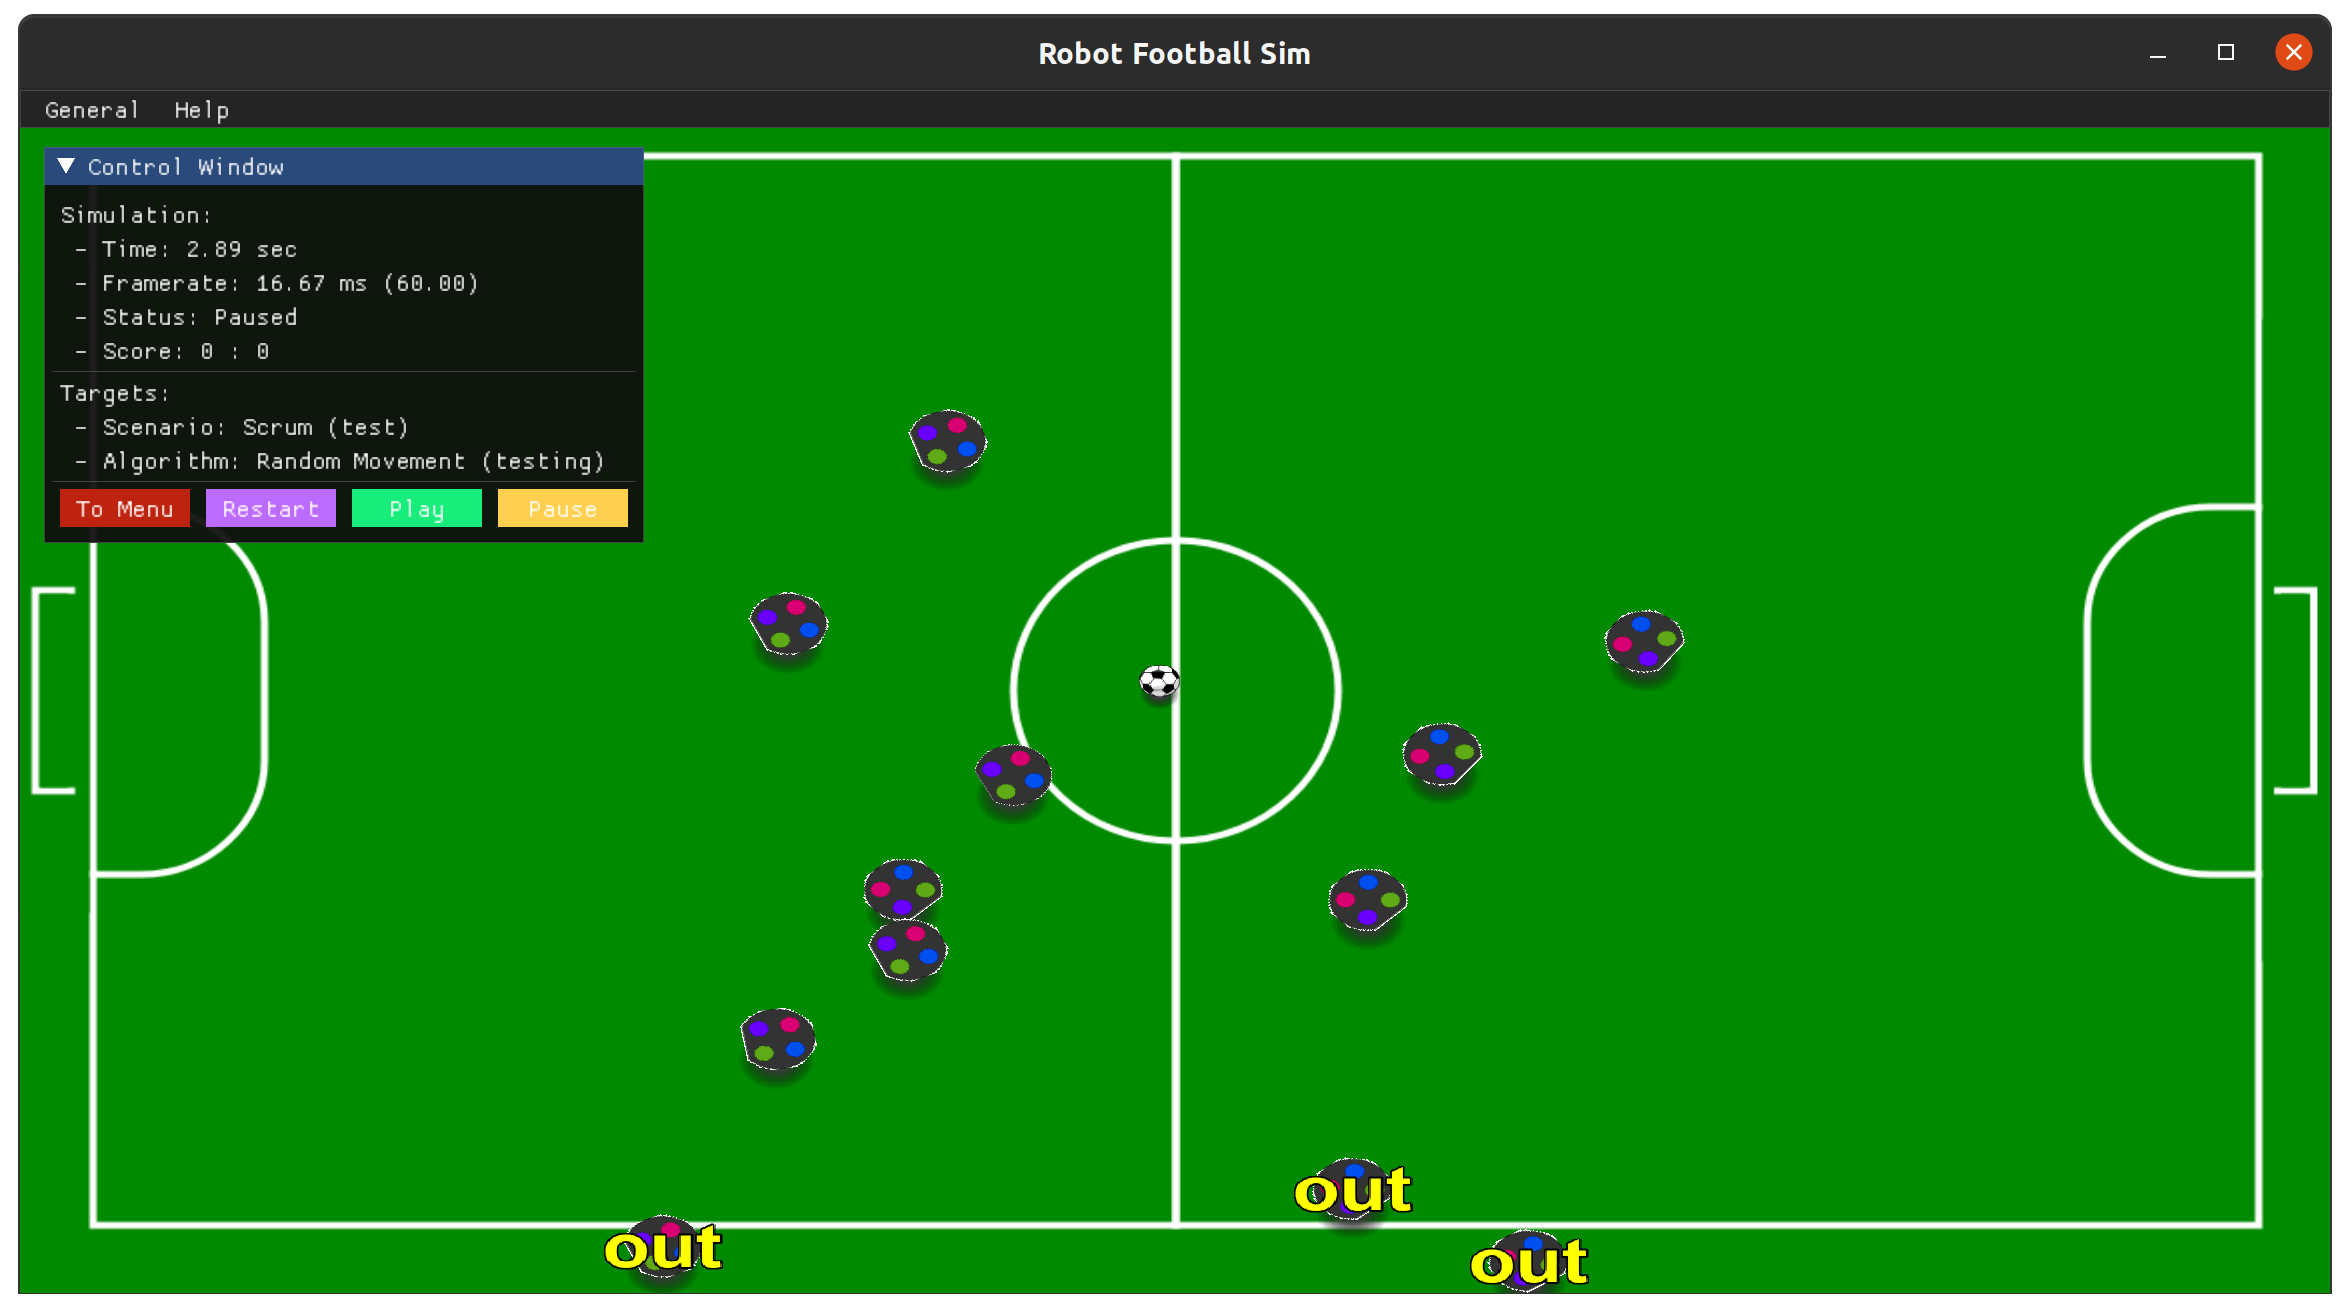
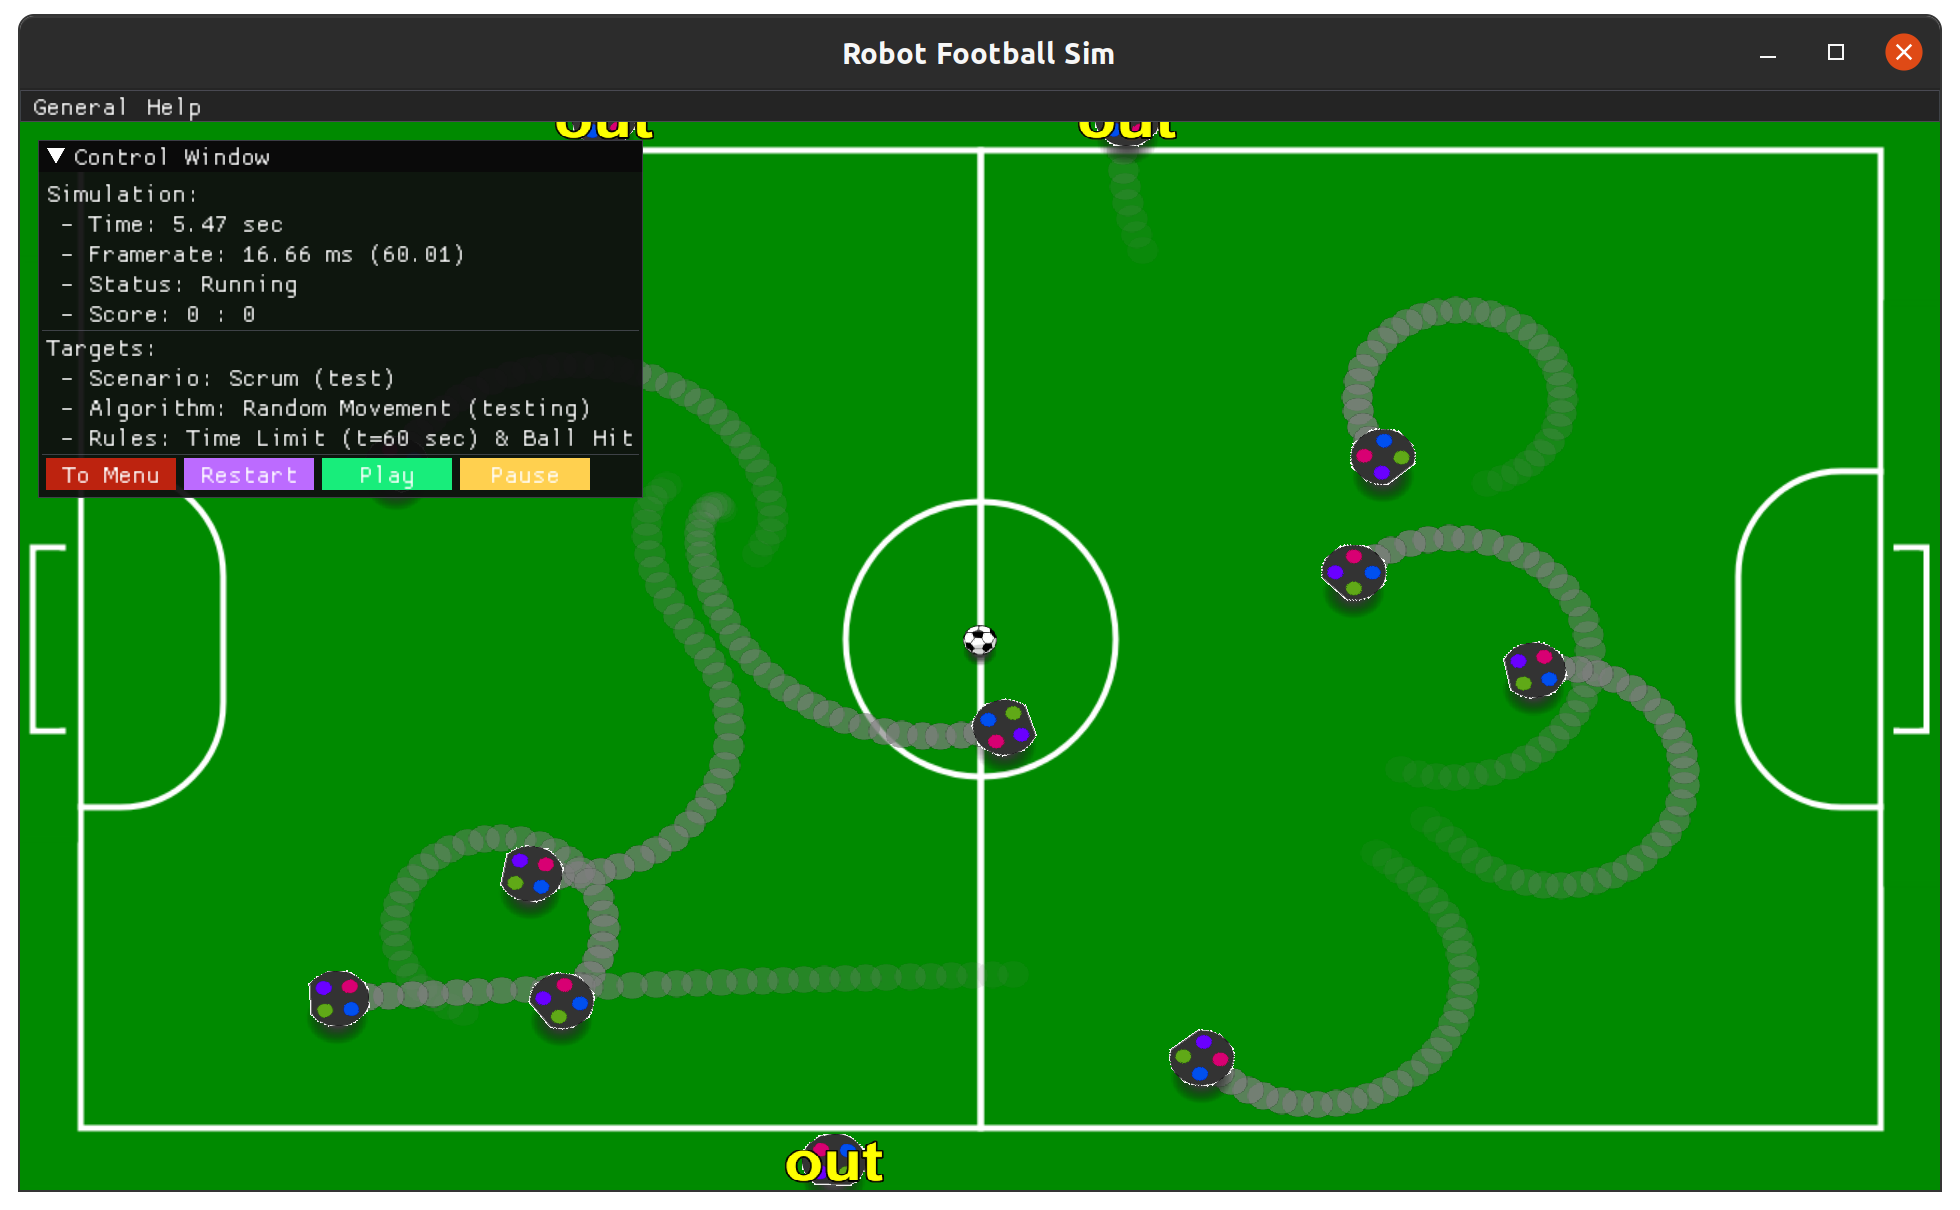
[Project] Update readme info

diff --git a/README.md b/README.md
@@ -2,19 +2,23 @@
 
 # Robot Football Simulator
 
-Robot football simulator with graphical user interface and the feature
-to develop and run algorithms, required to control robots, test
+Robot football simulator application with physically correct game simulation,
+different game scenario and game rules, rich settings and customization features 
+and with C API to develop and run algorithms, required to control robots, test
 various game strategies and game mechanics.
 
 ### Features Summary
 
-- [X] Dynamic algorithms loading
 - [X] Simulated 2d physics of the game
-- [X] 2d rendering for the football game
-- [X] Game logic and rules 
-- [X] GUI application, widgets and menus
-- [ ] Example Algorithms
-- [ ] Config support
+- [X] Optimized 2d rendering for the football game
+- [X] Game scenario for different game setup
+- [X] Game rules to control game flow
+- [X] Plugin system for user-defined algorithms loading at runtime
+- [X] GUI application
+- [X] Settings to tweak simulation and display options
+- [X] Debug window with current simulation state info
+- [X] Example Algorithms
+- [X] Config file support
 
 ## Third-party dependencies
 
@@ -23,9 +27,13 @@ various game strategies and game mechanics.
 * [box2d](https://github.com/erincatto/box2d) for 2d robots physics simulation 
 * [imgui](https://github.com/ocornut/imgui) for creating application GUI
 * [stb image](https://github.com/nothings/stb) for images processing
+* [dynalo](https://github.com/maddouri/dynalo) for shared/dynamics libraries management
+* [picojson](https://github.com/kazuho/picojson) for json configs loading
 * [glm](https://github.com/g-truc/glm) for 3d math functions
 
 ## Getting started
+
+### Source code
 
 Get the source code and initialize dependencies of the project.
 
@@ -34,6 +42,8 @@ $ git clone https://github.com/EgorOrachyov/RobotFootballSim.git
 $ cd RobotFootballSim
 $ git submodule update --init --recursive
 ```
+
+### Build
 
 Configure build directory and run the build process.
 
@@ -46,22 +56,128 @@ cmake --build .
 
 Alternatively import project into desired IDE (import as cmake project).
 
+In order to start the simulator `rfsim` target, you will have to build all default
+algorithm plugins targets `randommove` and `followmove`. As soon as its done,
+you will be able to correctly start the simulator application.
+
+### Run
+
+Inside the build directory go into directory with actual `rfsim` executable
+(on linux/macos it will be placed in `build/rfsim`, on windows some generators
+can output the actual executable into `build/Debug/rfsim` and something similar):
+
+```shell script
+./rfsim
+```
+
+This command starts simulator application, so the app primary window must appear on the screen.
+
+### Config
+
+Simulator uses `config.json` to tweak simulator params, which are parsed and applied on application start-up.
+This config file is placed near `rfsim` executable inside build directory in time of cmake build process.
+Use this config file to customize the following params:
+
+* **windowWidth** Primary window width in universal units **ADVANCED**
+* **windowHeight** Primary window height in universal units **ADVANCED**
+* **fontScale** Font scale for hdpi displays
+* **guiScale** GUI elements scale for hdpi displays **ADVANCED**
+* **resourcesPath** Prefix path to simulator resources **ADVANCED**
+* **pluginPathPrefix** Prefix path to algorithms plugins **ADVANCED**
+* **pluginPaths** Actual plugins names to load on start-up (use name without `lib` and `ext` specifiers)
+
+### Algorithm
+
+In order to create custom algorithm you need to create a shared/dynamic library object
+and expose API conventions functions, which will be called by the simulator for each simulation step.
+The API is described in `include/rfsim/rfsim.h` header file. The template of the basic algorithm is following:
+
+```c++
+#define RFSIM_EXPORTS
+#include <rfsim/rfsim.h>
+#include <cstring>
+
+RFSIM_DEFINE_FUNCTION_INIT {
+    std::strcpy(context->name, "Algorithm Template");
+    std::strcpy(context->description, "Default algorithm template for readme");
+    return rfsim_status_success;
+};
+
+RFSIM_DEFINE_FUNCTION_BEGIN_GAME {
+    return rfsim_status_success;
+};
+
+RFSIM_DEFINE_FUNCTION_TICK_GAME {
+    return rfsim_status_success;
+};
+
+RFSIM_DEFINE_FUNCTION_END_GAME {
+    return rfsim_status_success;
+};
+
+RFSIM_DEFINE_FUNCTION_FINALIZE {
+    return rfsim_status_success;
+};
+```
+
+This algorithm does actually nothing. However, it provides five callback functions,
+which will be called for each simulation step. Description of the functions:
+
+1. `rfsim_status rfsim_init(rfsim_algo_state* context)` - called when the algorithm is loaded into the simulator
+2. `rfsim_status rfsim_begin_game(rfsim_algo_state* context, const rfsim_game_settings* settings, const rfsim_game_start_info* start)` - called when new game is started
+3. `rfsim_status rfsim_tick_game(rfsim_algo_state* context, rfsim_game_state_info* state)` - called each sim step
+4. `rfsim_status rfsim_end_game(rfsim_algo_state* context)` - called when game is finished
+5. `rfsim_status rfsim_finalize(rfsim_algo_state* context)` - called when algorithm is unloaded from simulator
+
+Follow `rfsim.h` and some example algorithms implementations to create your custom algo.
+
+### Conventions
+
+1. Simulator uses 2d coordinates space with horizontal from left to right X-axis,
+and vertical from top to bottom Y-axis. Rotations are encoded in radians, full rotation is 2 * PI respectively.
+By default the body (robot) direction vector is `(1, 0)` and its angle is `0.0f`. 
+The rotation is in clockwise order, so the body with angle `PI / 4` has direction vector (0.707, 0.707).
+More info is shown on the image: 
+![rfsim](https://raw.githubusercontent.com/EgorOrachyov/RobotFootballSim/main/docs/pictures/coords-space.png)
+
+2. For measurements simulator uses the metric system of measures and weights.
+Robots and ball mass is in kilograms, speed is in meter/second, force is in Newtons, time in seconds and etc.
+Physics properties of the field, robots and ball, friction and restitution are set in the 
+`physics/PhysicsGameProperties.hpp` structure. This properties are custom for each game and can be found
+in the `scenarion/ScenarionCommon.hpp` class. Physics settings are listed bellow:
+
+* **fieldFriction** field friction for bodies
+* **robotRadius** in meters
+* **robotHeight** in meters
+* **robotMass** in kilograms
+* **robotFriction** robot material friction
+* **robotRestitution** robot restitution for contacts
+* **robotMaxSpeed** in meters/second
+* **robotWheelXOffset** offset in meters from the center of the robot where wheels are placed
+* **ballRadius** in meters
+* **ballMass** in kilograms
+* **ballFriction** ball material friction
+* **ballRestitution** ball restitution for contacts
+
 ## Simulator Features
 
-Main menu screen animated logo and menu to start new game with selected scenario and control algorithm.
+1. Main menu screen animated logo and menu to start new game with selected scenario, control algorithm and game rules.
 ![rfsim](https://raw.githubusercontent.com/EgorOrachyov/RobotFootballSim/main/docs/pictures/rfsim_main_menu.png)
 
-In-game control menu with features to `pause` game, `continue` game from current state of `restart`.
+2. Simulation control menu with features to `pause` game, `continue` game from current state of `restart`.
 Also control window displays some statistic info current simulation: total time in game, current
-frame rate, score and status. Selected scenario and algorithm also displayed.
+frame rate, score and status. Selected scenario, rules and algorithm also displayed.
+![rfsim](https://raw.githubusercontent.com/EgorOrachyov/RobotFootballSim/main/docs/pictures/rfsim_before_game.png)
+
+3. Simulator allows you to pause and play game, tweak settings, dive into game process, display out and collision info.
 ![rfsim](https://raw.githubusercontent.com/EgorOrachyov/RobotFootballSim/main/docs/pictures/rfsim_ingame.png)
 
-Simulator provides some basic settings tool, which allows to tweak drawing settings such as 
-collisions/out info display, shadows settings (including the Sun position), field customisation color
-and debug info window show/hide.
+4. Simulator provides some basic settings tool, which allows to tweak drawing settings such as 
+trace information, debug info window, collisions/out info display, shadows settings (including the Sun position),
+field customization color.
 ![rfsim](https://raw.githubusercontent.com/EgorOrachyov/RobotFootballSim/main/docs/pictures/rfsim_settings.png)
 
-Debug info provides current actual information about game state. In includes all dynamic objects
+5. Debug info provides current actual information about game state. In includes all dynamic objects
 properties: position, velocity, rotation (angle, the same as direction), and motors forces.
 ![rfsim](https://raw.githubusercontent.com/EgorOrachyov/RobotFootballSim/main/docs/pictures/rfsim_debug_info.png)
 
@@ -73,15 +189,17 @@ RobotFootballSim
 ├── resource - data used by simulator at runtime
 ├── rfsim - simulator core source code
 │   ├── include - library public C API for algorithm plugins
-│   ├── plugins - algorithms for robots (loaded in runtime as shared library)
+│   ├── plugins - algorithms for robots (loaded at runtime as shared/dynamic libraries)
 │   ├── sources - source-code for implementation
 │   │   ├── graphics - graphics server and image io for displaying actual game
 │   │   ├── gui - user application sources
 │   │   ├── logic - game logic, algorithms and managers
 │   │   ├── opengl - low-level gl drawing stuff
 │   │   ├── physics - game physics simulation source code
+│   │   ├── rules - various game rules to control the game process
 │   │   ├── scenario - scenario collectio for dirrent games setup
-│   │   └── shaders - glsl low-level drawing shaders code
+│   │   ├── shaders - glsl low-level drawing shaders code
+│   │   └── utils - utility classes shared among source code modules
 │   └── CMakeLists.txt - actual sim build config
 ├── deps - project dependencies
 │   ├── box2d - physics engine 
@@ -90,8 +208,10 @@ RobotFootballSim
 │   ├── glfw - cross-platform native windowing manager
 │   ├── glm - 3d math 
 │   ├── imgui - cross-platform GUI framework
+│   ├── picojson - lightweight json parser
 │   └── stb - collection of cross-platfom stb-based image utils 
-└── CMakeLists.txt - project cmake config, add this as sub-directory to your project
+├── CMakeLists.txt - project cmake config, add this as sub-directory to your project
+└── config.json - application config file, copyied into build dir at cmake build step
 ```
 
 ## License
@@ -101,4 +221,15 @@ This project is licensed under MIT license. License text can be found in the
 
 ## Contributors
 
+- Unknown Contributor 1
+- Unknown Contributor 2
+- Unknown Contributor 3
+- Unknown Contributor 4
+- Unknown Contributor 5
+
 ## Also
+
+This is a research project of students of the Faculty of Mathematics and Mechanics of 
+St. Petersburg State University as part of the course `Algorithmic foundations of robotics`
+under the guidance of Professor Andrey Nikolaevich Terekhov.
+
